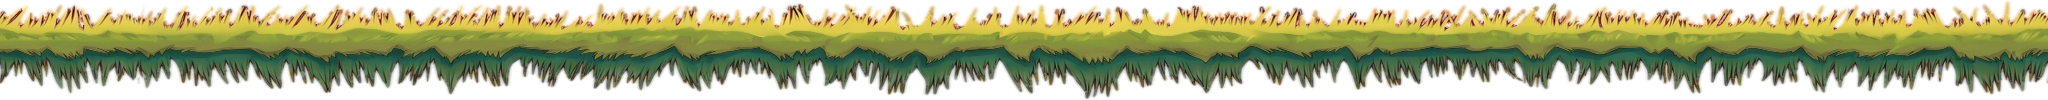
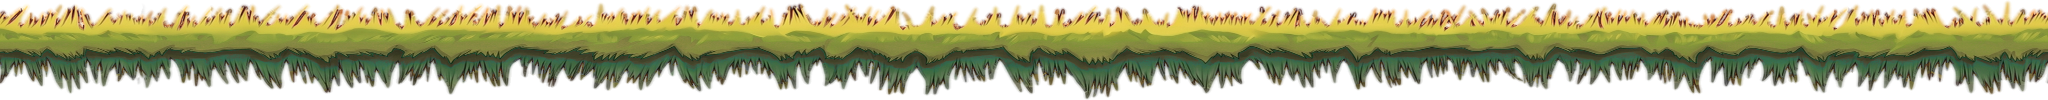
The ground's bank painted (four blind judges in a row: "a vector platformer tile under a painted, inked world"): the main ground under the turf is a cut of red-brown earth in beds with stones and roots, inked as the backdrop is (GPT Image 2.6 Sunburst from the style frame's own bank; tools/art/kie/w

Changed region(s): [[0.0, 0.48, 1.0, 0.69]]

diff --git a/New/tools/art/grass_gold.py b/New/tools/art/grass_gold.py
@@ -4,9 +4,10 @@ under everyone reads as a pasted band": a saturated lawn green under a golden pl
 
 Its greens are turned toward yellow-green and a little down in saturation, each pixel's light and shade kept; the
 straws, flowers and soil in the same pictures are not touched (other hues). In place; done once (a picture already
-turned has no pure green left to turn).
+turned must not be turned again: each pass once).
 
-    python3 tools/art/grass_gold.py
+    python3 tools/art/grass_gold.py greens    the blades and the mat (done 2026-11-12)
+    python3 tools/art/grass_gold.py under     the teal underside of the lip and its fringe (done 2026-11-12)
 """
 import sys
 from pathlib import Path
@@ -19,22 +20,29 @@ from bandit_palette import hsv, rgb_of  # noqa: E402
 
 ART = Path(__file__).resolve().parents[2] / "assets/art/world"
 PICTURES = ["grass_cap", "grass_ends", "grass_drape", "tufts", "front_grass"]
-FROM, TO = 72.0, 150.0  # the greens' hues (degrees)
-TURN = -24.0  # degrees toward yellow
-SAT = 0.86
+## pass -> the hues it takes (degrees, from, to), the turn toward yellow, saturation x, value x
+PASSES = {
+    "greens": (72.0, 150.0, -24.0, 0.86, 1.0),  # the lawn green of the blades and the mat: toward gold-green
+    # (blind round 8: "a lawn-green band with a sawtooth fringe: a vector platformer tile") the teal underside of the
+    # turf's lip and its hanging fringe: a dry dark olive, the shade under a mat of savanna grass
+    "under": (150.0, 206.0, -104.0, 0.6, 0.8),
+}
 
 
-def main() -> None:
+def main(which: str) -> None:
+    lo, hi, turn, ks, kv = PASSES[which]
     for name in PICTURES:
         path = ART / (name + ".png")
         im = np.asarray(Image.open(path).convert("RGBA")).astype(np.float32) / 255.0
         h, s, v = hsv(im[..., :3])
-        k = np.clip((h - FROM) / 8.0, 0, 1) * np.clip((TO - h) / 8.0, 0, 1) * np.clip((s - 0.12) / 0.1, 0, 1)
-        new = rgb_of((h + TURN) % 360.0, s * SAT, v)
+        k = np.clip((h - lo) / 8.0, 0, 1) * np.clip((hi - h) / 8.0, 0, 1) * np.clip((s - 0.12) / 0.1, 0, 1)
+        new = rgb_of((h + turn) % 360.0, s * ks, v * kv)
         out = im[..., :3] * (1 - k[..., None]) + new * k[..., None]
         Image.fromarray((np.dstack([out, im[..., 3]]).clip(0, 1) * 255 + 0.5).astype(np.uint8), "RGBA").save(path)
         print("%s: %.0f%% of it turned" % (name, float((k > 0.5).sum()) / max(float((im[..., 3] > 0.5).sum()), 1.0) * 100))
 
 
 if __name__ == "__main__":
-    main()
+    if len(sys.argv) != 2 or sys.argv[1] not in PASSES:
+        raise SystemExit("usage: grass_gold.py greens|under   (each pass once: both are done on the pictures in git)")
+    main(sys.argv[1])

diff --git a/New/tools/art/kie/world.py b/New/tools/art/kie/world.py
@@ -14,6 +14,7 @@ the frame, then each layer of it alone on a transparent background, with the fra
     tree_*.png           ten trees (+ tree_info.json: the foot of each trunk)
     fg_props.png         six plants and rocks near the camera
     home_fire.png        the cooking fire at home, four frames (HomeView.Fire)
+    earth.png            the cut bank of the main ground under the turf (terrain.gdshader), repeating
 
     python3 tools/art/kie/world.py [sky wall mesas plain rise grass trees front]   (none: all)
 
@@ -225,6 +226,15 @@ def front() -> None:
     save(atlas, OUT / "fg_props.png")
 
 
+def earth() -> None:
+    """The main ground's bank (terrain.gdshader earth_tex): the top of the painted cut, repeating left to right."""
+    a = load("earth")
+    out = seam(a[:480], 256, 3.0)
+    out = resize(out, (out.shape[1] // 2, out.shape[0] // 2))
+    out[..., 3] = 1.0
+    save(out, OUT / "earth.png", opaque=True)
+
+
 def fire() -> None:
     """The cooking fire at home: four frames in a row, the stones and logs in the same place in each."""
     ps = pieces("fire", 4, 1)
@@ -241,6 +251,6 @@ def fire() -> None:
 
 
 if __name__ == "__main__":
-    todo = sys.argv[1:] or ["sky", "wall", "mesas", "plain", "rise", "grass", "trees", "front", "fire"]
+    todo = sys.argv[1:] or ["sky", "wall", "mesas", "plain", "rise", "grass", "trees", "front", "fire", "earth"]
     for name in todo:
         globals()[name]()
